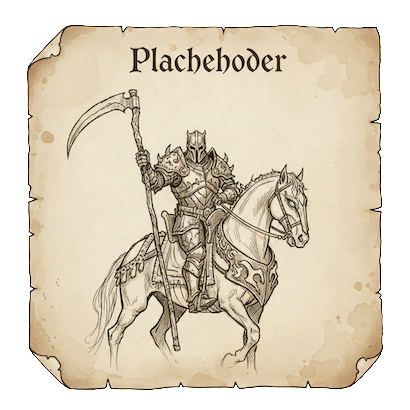
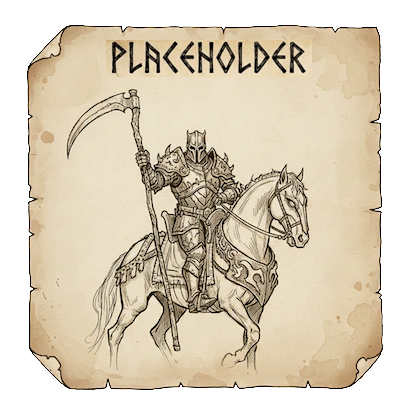
restyle ui

Changed region(s): [[0.2634, 0.0878, 0.761, 0.2049]]

diff --git a/packages/client/src/views/ExploreView.vue b/packages/client/src/views/ExploreView.vue
@@ -1,14 +1,16 @@
 <template>
   <main v-if="mageStore.mage">
-    <div class="section-header">Explore</div>
-    <div class="row">
-      <img src="@/assets/images/explore.png" class="gen-img" />
+    <div class="row" style="width: 35rem; margin-bottom: 0.5rem">
+      <ImageProxy src="/images/ui/explore.png" />
+      <div>
+        <div class="section-header">Explore</div>
+        <div>
+          You get an average of {{ exploreRate }} acres of land per turn. 
+          The amount of land explored per turn decreases as your land increases.
+        </div>
+      </div>
     </div>
     <section> 
-      <p>
-        You get an average of {{ exploreRate }} acres of land per turn. 
-        The amount of land explored per turn decreases as your land increases.
-      </p>
       <div class="form">
         <input type="number" placeholder="# turns" size="10" v-model="turnsToExplore">
 
@@ -34,6 +36,7 @@ import { useMageStore } from '@/stores/mage';
 import { explorationRate } from 'engine/src/interior';
 import ActionButton from '@/components/action-button.vue';
 import type { Mage } from 'shared/types/mage';
+import ImageProxy from '@/components/ImageProxy.vue';
 
 const turnsToExplore = ref(0);
 const mageStore = useMageStore();

diff --git a/packages/client/src/views/ItemView.vue b/packages/client/src/views/ItemView.vue
@@ -1,10 +1,12 @@
 <template>
-  <div class="section-header">Your item inventory</div>
-  <p>
-    You have {{ itemList.length }} item types in your inventory storage.
-  </p>
-  <div class="row">
-    <img src="@/assets/images/item.png" class="gen-img" />
+  <div class="row" style="width: 35rem; margin-bottom: 0.5rem">
+    <ImageProxy src="/images/ui/item.png" />
+    <div>
+      <div class="section-header">Item inventory</div>
+      <div>
+        You have {{ numItems }} items in your inventory storage.
+      </div>
+    </div>
   </div>
 
   <section class="row" style="align-items: flex-start; gap: 0.5rem; margin-top: 10px">
@@ -86,6 +88,7 @@ import { computed, ref } from 'vue';
 import { storeToRefs } from 'pinia';
 import { useMageStore } from '@/stores/mage';
 import { getItems } from '@/util/util';
+import ImageProxy from '@/components/ImageProxy.vue';
 
 const selected = ref('');
 const turns = ref<number>(1);
@@ -107,6 +110,10 @@ const itemList = computed(() => {
 
   let result = getItems(mage.value);
   return result.sort((a, b) => a.id.localeCompare(b.id));
+});
+
+const numItems = computed(() => {
+  return Object.values(mage.value!.items).reduce((acc, v) => acc + v, 0);
 });
 
 const usableItems = computed(() => {

diff --git a/packages/client/src/views/ResearchView.vue b/packages/client/src/views/ResearchView.vue
@@ -1,15 +1,17 @@
 <template>
   <main v-if="mageStore.mage">
-    <div class="section-header">Research</div>
-    <div class="row">
-      <img src="@/assets/images/research.png" width="400" class="gen-img" />
+    <div class="row" style="width: 35rem; margin-bottom: 0.5rem">
+      <ImageProxy src="/images/ui/research.png" />
+      <div>
+        <div class="section-header">Research</div>
+        <div>
+          You guilds are generating {{ rp }} research points per turn. Your item generation rate is {{ itemRate }}%.
+        </div>
+      </div>
     </div>
     <p> 
       Current spell level: {{ currentSpellLevel(mageStore.mage) }} 
       (Max = {{ maxSpellLevel(mageStore.mage) }})
-    </p>
-    <p> 
-      Generating {{ rp }} research points per turn. Item generation rate is {{ itemRate }}%.
     </p>
     <table v-if="currentResearch" style="margin-top: 10px">
       <tbody>
@@ -74,6 +76,7 @@ import { Mage } from '../../../shared/types/mage';
 import { readableNumber, readableStr } from '@/util/util';
 import { currentSpellLevel } from 'engine/src/base/mage';
 import { allowedMagicList } from 'shared/src/common';
+import ImageProxy from '@/components/ImageProxy.vue';
 
 const mageStore = useMageStore();
 

diff --git a/packages/client/src/views/BuildingView.vue b/packages/client/src/views/BuildingView.vue
@@ -1,7 +1,17 @@
 <template>
-  <h3 class="section-header">Build</h3>
-  <div class="row">
-    <img src="@/assets/images/building.png" class="gen-img" />
+  <div class="row" style="width: 35rem; margin-bottom: 0.5rem">
+    <ImageProxy src="/images/ui/building.png" />
+    <div>
+      <div class="section-header">Build</div>
+      <div>
+        - Towns/Farms: Population and unit space
+        <br>- Barracks: Recruitment rate
+        <br>- Nodes: Mana production and capacity
+        <br>- Guilds: Research and item generation
+        <br>- Forts: Defence bonus
+        <br>- Barriers: Spell resistance
+      </div>
+    </div>
   </div>
   <p v-if="mageStore">
     You have {{ readableNumber(mageStore.mage!.wilderness) }} acres of wilderness.
@@ -17,6 +27,7 @@ import { useMageStore } from '@/stores/mage';
 import { Mage } from 'shared/types/mage';
 import BuildTable from '@/components/build-table.vue';
 import { readableNumber } from '@/util/util';
+import ImageProxy from '@/components/ImageProxy.vue';
 
 const mageStore = useMageStore();
 const errorStr = ref('');

diff --git a/packages/client/src/views/SpellView.vue b/packages/client/src/views/SpellView.vue
@@ -1,8 +1,13 @@
 <template>
-  <div class="section-header">Spells in your Spellbook</div>
-  <p>
-    You have {{ spells.length }} spells in your spell book.
-  </p>
+  <div class="row" style="width: 35rem; margin-bottom: 0.5rem">
+    <ImageProxy src="/images/ui/spell.png" />
+    <div>
+      <div class="section-header">Cast Magic</div>
+      <div>
+        You have {{ spells.length }} spells in your spell book.
+      </div>
+    </div>
+  </div>
   <section class="row" style="align-items: flex-start; gap: 0.5rem; margin-top: 10px">
     <div style="max-height: 400px; overflow-y: scroll; padding: 0">
       <table v-if="spells.length > 0">
@@ -87,6 +92,7 @@ import Magic from '@/components/magic.vue';
 import ActionButton from '@/components/action-button.vue';
 import { readableNumber } from '@/util/util';
 import { Spell } from 'shared/types/magic';
+import ImageProxy from '@/components/ImageProxy.vue';
 
 const mageStore = useMageStore();
 

diff --git a/packages/client/src/views/DestroyView.vue b/packages/client/src/views/DestroyView.vue
@@ -1,7 +1,13 @@
 <template>
-  <div class="section-header">Destroy Buildings</div>
-  <div class="row">
-    <img src="@/assets/images/destroy.png" class="gen-img" />
+  <div class="row" style="width: 35rem; margin-bottom: 0.5rem">
+    <ImageProxy src="/images/ui/destroy.png" />
+    <div>
+      <div class="section-header">Destroy Buildings</div>
+      <div>
+        You can demolish and reclaim your buildings as wilderness acres. 
+        Demolitions takes one turn.
+      </div>
+    </div>
   </div>
   <p v-if="mageStore">
     You have {{ readableNumber(mageStore.mage!.wilderness) }} acres of wilderness.
@@ -18,6 +24,7 @@ import { useMageStore } from '@/stores/mage';
 import { Mage } from 'shared/types/mage';
 import DestroyTable from '@/components/destroy-table.vue';
 import { readableNumber } from '@/util/util';
+import ImageProxy from '@/components/ImageProxy.vue';
 
 const mageStore = useMageStore();
 const errorStr = ref('');

diff --git a/packages/client/src/views/DispelView.vue b/packages/client/src/views/DispelView.vue
@@ -4,8 +4,7 @@
     <div>
       <div class="section-header">Dispel Magic</div>
       <div>
-        You can undo enchantments that others casted on you, or spells you casted on yourself.
-        Success depends on how much mana you use to undo the enchantment.
+        You can undo enchantments that others have cast on you, or spells you have cast on yourself. Success depends on how much mana you use to undo the enchantment.
       </div>
     </div>
   </div>

diff --git a/packages/client/src/views/DisbandView.vue b/packages/client/src/views/DisbandView.vue
@@ -4,8 +4,7 @@
     <div>
       <div class="section-header">Disband Units</div>
       <div>
-        Here you can dismiss troops that you had summoned or recruited. 
-        Some units cannot be dismissed, and you need to find ... other ways.
+        Here, you can dismiss troops that you have summoned or recruited. Some units cannot be dismissed, and you will need to find … other ways.
       </div>
     </div>
   </div>

diff --git a/packages/client/src/views/AssignmentView.vue b/packages/client/src/views/AssignmentView.vue
@@ -4,8 +4,7 @@
     <div>
       <div class="section-header">Assignment</div>
       <div>
-        Assign the spell and item you want to deploy for defence. 
-        Conditions are based on relative powers of the opposing armies.
+        Assign the spell and item you want to deploy for defense. Conditions depend on the relative strengths of the opposing armies.
       </div>
     </div>
   </div>
